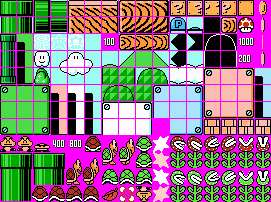
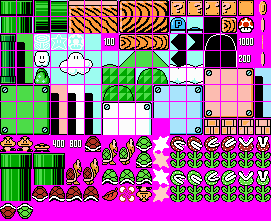
mario shoot koopa

diff --git a/Pod/Koopa.cpp b/Pod/Koopa.cpp
@@ -258,6 +258,36 @@ void Koopa::setState(KoopaState _state)
 		this->setVy(0);
 		break;
 	}
+
+	case KOOPA_THROWN_LEFT_AWAY:
+	{
+		delete animation;
+		if (this->getIsGreenMode()) {
+			this->animation = new Animation(AnimationBundle::getInstance()->getKoopaGreenThrownAway());
+		}
+		else {
+			this->animation = new Animation(AnimationBundle::getInstance()->getKoopaRedThrownAway());
+		}
+
+		this->thrownX = 0;
+		this->startThrownY = this->getY();
+		break;
+	}
+
+	case KOOPA_THROWN_RIGHT_AWAY:
+	{
+		delete animation;
+		if (this->getIsGreenMode()) {
+			this->animation = new Animation(AnimationBundle::getInstance()->getKoopaGreenThrownAway());
+		}
+		else {
+			this->animation = new Animation(AnimationBundle::getInstance()->getKoopaRedThrownAway());
+		}
+
+		this->thrownX = 0;
+		this->startThrownY = this->getY();
+		break;
+	}
 	}
 
 	this->state = _state;
@@ -387,17 +417,16 @@ void Koopa::Update(float _dt)
 			}
 		}
 	}
-
-	/*if (this->pointY == this->endPointJumpUp || this->pointY == -std::numeric_limits<float>::infinity()) {
-		return;
+	else if (this->getState() == KOOPA_THROWN_LEFT_AWAY) {
+		this->plusXNoRound(-2);
+		this->setY(this->startThrownY + (-1 * (16 - (pow(thrownX + 24, 2) / 36)))); // -1: Oxy in game vs math
+		thrownX -= (2);
 	}
-
-	if (this->pointY - (2 * _dt) >= this->endPointJumpUp) {
-		this->pointY -= (2 * _dt);
+	else if (this->getState() == KOOPA_THROWN_RIGHT_AWAY) {
+		this->plusXNoRound(2);
+		this->setY(this->startThrownY + (-1 * (16 - (pow(thrownX - 24, 2) / 36)))); // -1: Oxy in game vs math
+		thrownX += (2);
 	}
-	else {
-		this->pointY = this->endPointJumpUp;
-	}*/
 }
 
 void Koopa::Draw(LPDIRECT3DTEXTURE9 _texture)
@@ -414,6 +443,7 @@ void Koopa::Draw(LPDIRECT3DTEXTURE9 _texture)
 
 void Koopa::handleHardComponentCollision(Component* _component, float _dt)
 {
+	if (this->getState() == KOOPA_THROWN_LEFT_AWAY || this->getState() == KOOPA_THROWN_RIGHT_AWAY) return;
 	tuple<bool, float, vector<CollisionEdge>> collisionResult = this->sweptAABBByFrame(_component, _dt);
 	if (get<0>(collisionResult) == true) {
 		CollisionEdge edge = get<2>(collisionResult)[0];
@@ -484,6 +514,7 @@ void Koopa::handleHardComponentCollision(Component* _component, float _dt)
 
 void Koopa::handleGiftBrickCollision(GiftBrick* _giftBrick, Mario* _mario, float _dt)
 {
+	if (this->getState() == KOOPA_THROWN_LEFT_AWAY || this->getState() == KOOPA_THROWN_RIGHT_AWAY) return;
 	tuple<bool, float, vector<CollisionEdge>> collisionResult = this->sweptAABBByFrame(_giftBrick, _dt);
 	if (get<0>(collisionResult) == true) {
 		CollisionEdge edge = get<2>(collisionResult)[0];
@@ -588,6 +619,8 @@ void Koopa::handleGiftBrickCollision(GiftBrick* _giftBrick, Mario* _mario, float
 
 void Koopa::handleBlockCollision(Component* _block, float _dt)
 {
+	if (this->getState() == KOOPA_THROWN_LEFT_AWAY || this->getState() == KOOPA_THROWN_RIGHT_AWAY) return;
+
 	//if (this->getState() == KOOPA_SHRINKAGE_DROPPING_LEFT || this->getState() == KOOPA_SHRINKAGE_DROPPING_RIGHT) {
 		tuple<bool, float, vector<CollisionEdge>> collisionResult = this->sweptAABBByFrame(_block, _dt);
 		if (get<0>(collisionResult) == true) {
@@ -631,6 +664,8 @@ void Koopa::handleBlockCollision(Component* _block, float _dt)
 
 void Koopa::handleGoombaCollision(Goomba* _goomba, float _dt)
 {
+	if (this->getState() == KOOPA_THROWN_LEFT_AWAY || this->getState() == KOOPA_THROWN_RIGHT_AWAY) return;
+
 	if (_goomba->getState() == TRAMPLED_GOOMBA
 		|| _goomba->getState() == THROWN_LEFT_AWAY_GOOMBA
 		|| _goomba->getState() == THROWN_RIGHT_AWAY_GOOMBA
@@ -667,6 +702,8 @@ void Koopa::handleGoombaCollision(Goomba* _goomba, float _dt)
 
 void Koopa::handleMarioCollision(Mario* _mario, float _dt)
 {
+	if (this->getState() == KOOPA_THROWN_LEFT_AWAY || this->getState() == KOOPA_THROWN_RIGHT_AWAY) return;
+
 	if (_mario->getState() == DIE
 		|| _mario->getState() == DIE_JUMPING
 		|| _mario->getState() == DIE_DROPPING
@@ -741,5 +778,26 @@ void Koopa::handleMarioCollision(Mario* _mario, float _dt)
 				
 				this->setupPointAnimPosition();
 			}
+	}
+}
+
+void Koopa::handleFireBallCollision(FireBall* _fireBall, float _dt)
+{
+	if (this->getState() == KOOPA_THROWN_LEFT_AWAY || this->getState() == KOOPA_THROWN_RIGHT_AWAY) return;
+	tuple<bool, float, vector<CollisionEdge>> collisionResult = this->sweptAABBByBounds(_fireBall, _dt);
+
+	if (get<0>(collisionResult) == true || this->isCollidingByBounds(_fireBall->getBounds())) {
+		AnimationCDPlayer::getInstance()->addCD(make_pair(CDType::PointUpCDType, new PointUpCD(this->getDefaultPoint() * this->getPointCoef(), this->getX(), this->getY())));
+		_fireBall->plusX(get<1>(collisionResult) * _fireBall->getVx());
+		_fireBall->plusY(get<1>(collisionResult) * _fireBall->getVy());
+		this->plusX(get<1>(collisionResult) * this->getVx());
+		this->plusX(get<1>(collisionResult) * this->getVx());
+
+		if (_fireBall->getState() == FIREBALL_FLYING_LEFT) {
+			this->setState(KoopaState::KOOPA_THROWN_LEFT_AWAY);
+		}
+		else if (_fireBall->getState() == FIREBALL_FLYING_RIGHT) {
+			this->setState(KoopaState::KOOPA_THROWN_RIGHT_AWAY);
+		}
 	}
 }

diff --git a/Pod/FireBall.cpp b/Pod/FireBall.cpp
@@ -1,6 +1,4 @@
 #include "FireBall.h"
-#include "Block.h"
-#include "Goomba.h"
 
 FireBall::FireBall(float _x, float _y, float _vx, float _vy, float _limitX, float _limitY, int _id) : Component(_x, _y, _vx, _vy, _limitX, _limitY, _id)
 {
@@ -113,6 +111,11 @@ void FireBall::Draw(LPDIRECT3DTEXTURE9 _texture)
 	}
 }
 
+void FireBall::setTopAnchor(bool _topAnchor)
+{
+	this->topAnchor = _topAnchor;
+}
+
 void FireBall::handleHardComponentCollision(Component* _component, float _dt)
 {
 	tuple<bool, float, vector<CollisionEdge>> collisionResult = this->sweptAABBByBounds(_component, _dt);
@@ -152,6 +155,28 @@ void FireBall::handleGoombaCollision(Goomba* _goomba, float _dt)
 		}
 		else if (this->getState() == FIREBALL_FLYING_RIGHT) {
 			_goomba->setState(THROWN_RIGHT_AWAY_GOOMBA);
+		}
+	}
+}
+
+void FireBall::handleKoopaCollision(Koopa* _koopa, float _dt)
+{
+	if (this->getState() == KOOPA_THROWN_LEFT_AWAY || this->getState() == KOOPA_THROWN_RIGHT_AWAY) return;
+
+	tuple<bool, float, vector<CollisionEdge>> collisionResult = this->sweptAABBByBounds(_koopa, _dt);
+
+	if (get<0>(collisionResult) == true || this->isCollidingByBounds(_koopa->getBounds())) {
+		AnimationCDPlayer::getInstance()->addCD(make_pair(CDType::PointUpCDType, new PointUpCD(_koopa->getDefaultPoint() * _koopa->getPointCoef(), _koopa->getX(), _koopa->getY())));
+		this->plusX(get<1>(collisionResult) * this->getVx());
+		this->plusY(get<1>(collisionResult) * this->getVy());
+		_koopa->plusX(get<1>(collisionResult) * _koopa->getVx());
+		_koopa->plusX(get<1>(collisionResult) * _koopa->getVx());
+
+		if (this->getState() == FIREBALL_FLYING_LEFT) {
+			_koopa->setState(KoopaState::KOOPA_THROWN_LEFT_AWAY);
+		}
+		else if (this->getState() == FIREBALL_FLYING_RIGHT) {
+			_koopa->setState(KoopaState::KOOPA_THROWN_RIGHT_AWAY);
 		}
 	}
 }

diff --git a/Pod/Mario.cpp b/Pod/Mario.cpp
@@ -1188,12 +1188,14 @@ void Mario::onKeyDown(vector<KeyType> _keyTypes)
 				if (this->getIsFlip()) {
 					this->firstFireBall->setX(this->getX());
 					this->firstFireBall->setY(this->getY());
+					this->firstFireBall->setTopAnchor(this->getY() - 16);
 					this->firstFireBall->setState(FireBallState::FIREBALL_FLYING_LEFT);
 					this->firstFireBall->setIsGoDown(true);
 				}
 				else {
 					this->firstFireBall->setX(this->getX() + this->getWidth());
 					this->firstFireBall->setY(this->getY());
+					this->firstFireBall->setTopAnchor(this->getY() - 16);
 					this->firstFireBall->setState(FireBallState::FIREBALL_FLYING_RIGHT);
 					this->firstFireBall->setIsGoDown(true);
 				}
@@ -1479,6 +1481,8 @@ void Mario::handleGoombaCollision(Goomba* _goomba, float _dt)
 
 void Mario::handleKoopaCollision(Koopa* _koopa, float _dt)
 {
+	if (_koopa->getState() == KOOPA_THROWN_LEFT_AWAY || _koopa->getState() == KOOPA_THROWN_RIGHT_AWAY) return;
+
 	if (this->getState() == DIE
 		|| this->getState() == DIE_JUMPING
 		|| this->getState() == DIE_DROPPING

diff --git a/Pod/SunnyVC.cpp b/Pod/SunnyVC.cpp
@@ -532,6 +532,9 @@ void SunnyVC::viewDidUpdate(float _dt)
 								else if (beginGoombaId <= (*koopaItr)->getId() && (*koopaItr)->getId() <= endGoombaId) {
 									static_cast<Koopa*>(*itr)->handleGoombaCollision(static_cast<Goomba*>(*koopaItr), _dt);
 								}
+								else if (beginFireBallId <= (*koopaItr)->getId() && (*koopaItr)->getId() <= endFireBallId) {
+									static_cast<Koopa*>(*itr)->handleFireBallCollision(static_cast<FireBall*>(*koopaItr), _dt);
+								}
 							}
 						}
 					}
@@ -582,6 +585,9 @@ void SunnyVC::viewDidUpdate(float _dt)
 								}
 								else if (beginGoombaId <= (*fireBallItr)->getId() && (*fireBallItr)->getId() <= endGoombaId) {
 									static_cast<FireBall*>(*itr)->handleGoombaCollision(static_cast<Goomba*>(*fireBallItr), _dt);
+								}
+								else if (beginKoopaId <= (*fireBallItr)->getId() && (*fireBallItr)->getId() <= endKoopaId) {
+									static_cast<FireBall*>(*itr)->handleKoopaCollision(static_cast<Koopa*>(*fireBallItr), _dt);
 								}
 							}
 						}

diff --git a/Pod/FireBall.h b/Pod/FireBall.h
@@ -2,9 +2,13 @@
 #include "Component.h"
 #include "AnimationBundle.h"
 #include "FireBallState.h"
+#include "Block.h"
+#include "Goomba.h"
+#include "Koopa.h"
 
-class Block;
-class Goomba;
+//class Block;
+//class Goomba;
+//class Koopa;
 
 class FireBall : public Component
 {
@@ -36,6 +40,7 @@ public:
 	void resetToOriginalPosition();
 	void setIsOutOfGrid(bool _isOutOfGrid);
 	void setIsGoDown(bool _isGoDown);
+	void setTopAnchor(bool _topAnchor);
 
 	//void loadInfo(string line, char seperator);
 	void Update(float _dt);
@@ -46,4 +51,5 @@ public:
 	void handleHardComponentCollision(Component* _component, float _dt);
 	void handleBlockCollision(Block* _block, float _dt);
 	void handleGoombaCollision(Goomba* _goomba, float _dt);
+	void handleKoopaCollision(Koopa* _koopa, float _dt);
 };

diff --git a/Pod/Koopa.h b/Pod/Koopa.h
@@ -12,6 +12,7 @@
 
 class Mario; // Say Goomba exists without defining it.
 class Goomba;
+class FireBall;
 
 class Koopa : public Enemy
 {
@@ -29,6 +30,9 @@ private:
 	int countDown = 30, originCountDown = 30; // countDown to switch from standing to shaking, and from shaking to moving
 
 	bool isFlip = false, isGreenMode = false;
+
+	// Thrown away
+	float thrownX, startThrownY;
 
 public:
 	// Init
@@ -66,6 +70,7 @@ public:
 	void handleBlockCollision(Component* _block, float _dt);
 	void handleGoombaCollision(Goomba* _goomba, float _dt);
 	void handleMarioCollision(Mario* _mario, float _dt);
+	void handleFireBallCollision(FireBall* _fireBall, float _dt);
 };
 
 #endif // !KOOPA

diff --git a/Pod/KoopaState.h b/Pod/KoopaState.h
@@ -1,5 +1,5 @@
 #pragma once
 
 enum KoopaState {
-	KOOPA_STANDING, KOOPA_MOVING_LEFT, KOOPA_MOVING_RIGHT, KOOPA_DROPPING_LEFT, KOOPA_DROPPING_RIGHT, KOOPA_SHRINKAGE, KOOPA_SHRINKAGE_MOVING_LEFT, KOOPA_SHRINKAGE_MOVING_RIGHT, KOOPA_SHRINKAGE_DROPPING_LEFT, KOOPA_SHRINKAGE_DROPPING_RIGHT, KOOPA_SHRINKAGE_SHAKING, KOOPA_DEAD,
+	KOOPA_STANDING, KOOPA_MOVING_LEFT, KOOPA_MOVING_RIGHT, KOOPA_DROPPING_LEFT, KOOPA_DROPPING_RIGHT, KOOPA_SHRINKAGE, KOOPA_SHRINKAGE_MOVING_LEFT, KOOPA_SHRINKAGE_MOVING_RIGHT, KOOPA_SHRINKAGE_DROPPING_LEFT, KOOPA_SHRINKAGE_DROPPING_RIGHT, KOOPA_SHRINKAGE_SHAKING, KOOPA_THROWN_LEFT_AWAY, KOOPA_THROWN_RIGHT_AWAY, KOOPA_DEAD,
 };

diff --git a/Pod/Goomba.cpp b/Pod/Goomba.cpp
@@ -315,6 +315,8 @@ void Goomba::handleBlockCollision(Component* _block, float _dt)
 
 void Goomba::handleKoopaCollision(Koopa* _koopa, float _dt)
 {
+	if (_koopa->getState() == KOOPA_THROWN_LEFT_AWAY || _koopa->getState() == KOOPA_THROWN_RIGHT_AWAY) return;
+
 	if (this->getState() == TRAMPLED_GOOMBA
 		|| this->getState() == THROWN_LEFT_AWAY_GOOMBA
 		|| this->getState() == THROWN_RIGHT_AWAY_GOOMBA

diff --git a/Pod/AnimationBundle.cpp b/Pod/AnimationBundle.cpp
@@ -444,6 +444,16 @@ Animation AnimationBundle::getGreenFlowerHalfSize()
 	return this->animations->at(78);
 }
 
+Animation AnimationBundle::getKoopaRedThrownAway()
+{
+	return this->animations->at(79);
+}
+
+Animation AnimationBundle::getKoopaGreenThrownAway()
+{
+	return this->animations->at(80);
+}
+
 Animation AnimationBundle::getSuperMarioFlyingWalking()
 {
 	return this->animations->at(49);

diff --git a/Pod/AnimationBundle.h b/Pod/AnimationBundle.h
@@ -122,5 +122,8 @@ public:
 	Animation getGreenFireFlowerGrowingUpHalfSize();
 	Animation getGreenFireFlowerDroppingHalfSize();
 	Animation getGreenFlowerHalfSize();
+
+	Animation getKoopaRedThrownAway();
+	Animation getKoopaGreenThrownAway();
 };
 
